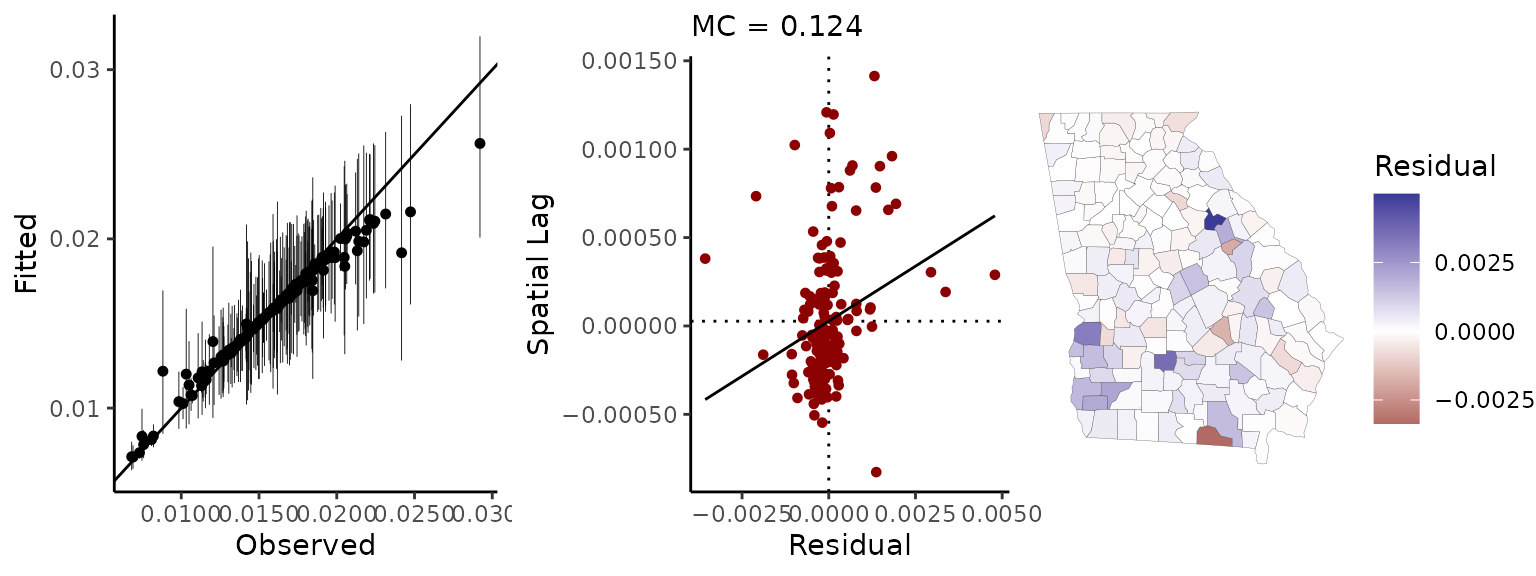
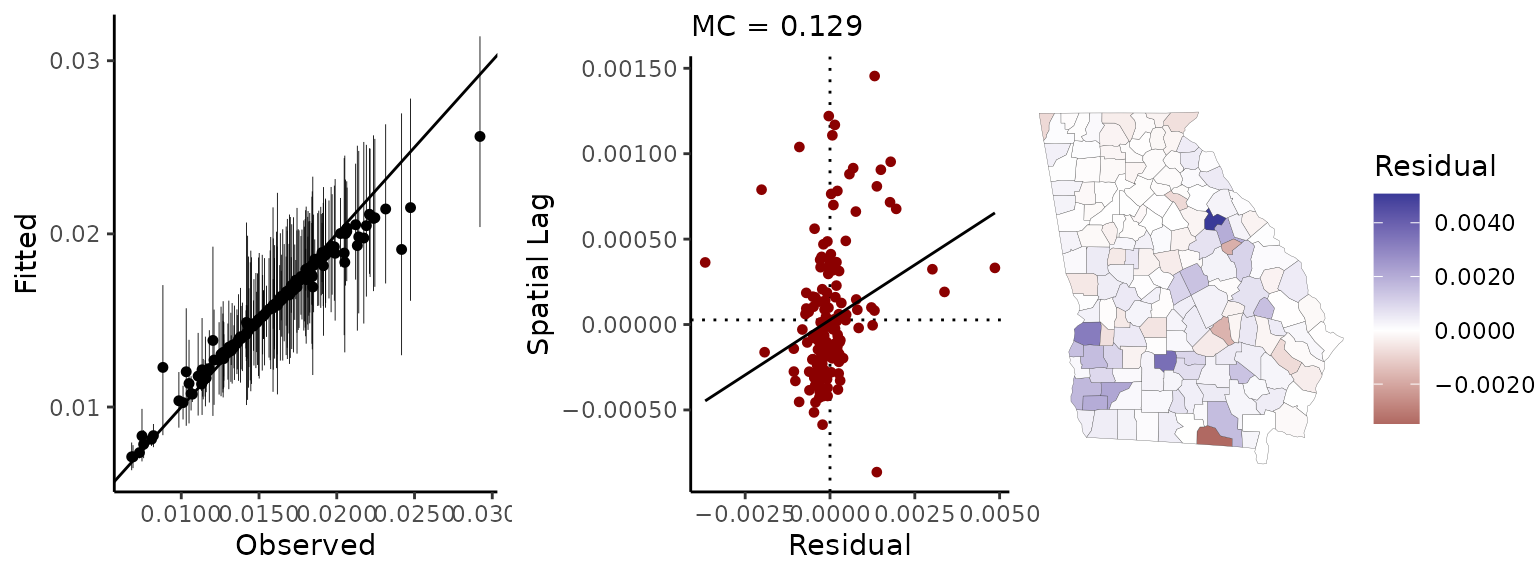
typo in equation

diff --git a/docs/articles/measuring-sa.html b/docs/articles/measuring-sa.html
@@ -157,7 +157,7 @@
 <div class="section level2">
 <h2 id="the-moran-coefficient-mc">The Moran coefficient (MC)<a class="anchor" aria-label="anchor" href="#the-moran-coefficient-mc"></a>
 </h2>
-<p>The formula for the Moran coefficient (MC), an index of SA, is <span class="math display">\[MC = \frac{n}{K}\frac{\sum_i^n \sum_j^n w_{ij} (y_i - \overline{y})(j_j - \overline{y})}{\sum_i^n (y_i - \overline{y})^2} \]</span> where <span class="math inline">\(K\)</span> is the sum of all values in the spatial connectivity matrix <span class="math inline">\(W\)</span> (i.e., the sum of all row-sums: <span class="math inline">\(K = \sum_i \sum_j w_{ij}\)</span>).</p>
+<p>The formula for the Moran coefficient (MC), an index of SA, is <span class="math display">\[MC = \frac{n}{K}\frac{\sum_i^n \sum_j^n w_{ij} (y_i - \overline{y})(y_j - \overline{y})}{\sum_i^n (y_i - \overline{y})^2} \]</span> where <span class="math inline">\(K\)</span> is the sum of all values in the spatial connectivity matrix <span class="math inline">\(W\)</span> (i.e., the sum of all row-sums: <span class="math inline">\(K = \sum_i \sum_j w_{ij}\)</span>).</p>
 <p>The MC is related to the Pearson product moment correlation coefficient. <span class="citation">(Chun and Griffith <a href="#ref-chun_2013">2013</a>, 10)</span>. Whereas the correlation coefficient ranges from -1 to 1, the MC does not, except under special circumstances—the range usually expands somewhat. Its expected value under a condition of zero SA is not zero, but instead, <span class="math inline">\(-1/(n-1)\)</span> (which approaches zero as <span class="math inline">\(n\)</span> increases).</p>
 <p>It is also important to understand that the MC does not ‘behave’ similarly to the correlation coefficient. Specifically, for moderate to high levels of autocorrelation, the MC may not be highly sensitive to changes in the degree of autocorrelation; it is more powerful for detecting the presence of autocorrelation. This issue motivated development of an approximate estimator of the spatial autocorrelation parameter from the simultaneous autoregressive (SAR) model, called APLE (approximate-profile likelihood estimator) <span class="citation">(Li, Calder, and Cressie <a href="#ref-li_2007">2007</a>)</span>. While it is limited to smaller data sets, it is another helpful tool (see <code><a href="../reference/aple.html">?geostan::aple</a></code>).</p>
 </div>
@@ -191,13 +191,13 @@
 <span class="va">x</span> <span class="op">&lt;-</span> <span class="fu"><a href="https://rdrr.io/r/base/Log.html" class="external-link">log</a></span><span class="op">(</span><span class="va">georgia</span><span class="op">$</span><span class="va">income</span><span class="op">)</span>
 <span class="va">Ii</span> <span class="op">&lt;-</span> <span class="fu"><a href="../reference/lisa.html">lisa</a></span><span class="op">(</span><span class="va">x</span>, <span class="va">W</span><span class="op">)</span>
 <span class="fu"><a href="https://rdrr.io/r/utils/head.html" class="external-link">head</a></span><span class="op">(</span><span class="va">Ii</span><span class="op">)</span>
-<span class="co">#&gt;       Li type</span>
-<span class="co">#&gt; 1  0.139   LL</span>
-<span class="co">#&gt; 2  0.574   LL</span>
-<span class="co">#&gt; 3  1.327   HH</span>
-<span class="co">#&gt; 4  1.473   HH</span>
-<span class="co">#&gt; 5 -0.688   HL</span>
-<span class="co">#&gt; 6  3.282   HH</span></code></pre></div>
+<span class="co">#&gt;           Li type</span>
+<span class="co">#&gt; 1  0.1386529   LL</span>
+<span class="co">#&gt; 2  0.5739574   LL</span>
+<span class="co">#&gt; 3  1.3266778   HH</span>
+<span class="co">#&gt; 4  1.4730497   HH</span>
+<span class="co">#&gt; 5 -0.6875601   HL</span>
+<span class="co">#&gt; 6  3.2815681   HH</span></code></pre></div>
 <p>“HH” indicates a high value surrounded by high values; “LL” is a low surrounded by low values, and so on.</p>
 <p>The local Geary statistic can be calculated using the <code>lg</code> function:</p>
 <div class="sourceCode" id="cb9"><pre class="downlit sourceCode r">
@@ -274,8 +274,8 @@
 <span class="co">#&gt; Spatial method (outcome):  Exchangeable </span>
 <span class="co">#&gt; Likelihood function:  poisson </span>
 <span class="co">#&gt; Link function:  log </span>
-<span class="co">#&gt; Residual Moran Coefficient:  0.02177775 </span>
-<span class="co">#&gt; WAIC:  1320.21 </span>
+<span class="co">#&gt; Residual Moran Coefficient:  0.02450075 </span>
+<span class="co">#&gt; WAIC:  1319.71 </span>
 <span class="co">#&gt; Observations:  159 </span>
 <span class="co">#&gt; Data models (ME): none</span>
 <span class="co">#&gt; Inference for Stan model: foundation.</span>
@@ -283,10 +283,10 @@
 <span class="co">#&gt; post-warmup draws per chain=1000, total post-warmup draws=4000.</span>
 <span class="co">#&gt; </span>
 <span class="co">#&gt;             mean se_mean    sd   2.5%    25%    50%    75%  97.5% n_eff  Rhat</span>
-<span class="co">#&gt; intercept -4.179   0.001 0.021 -4.220 -4.193 -4.179 -4.164 -4.136   388 1.022</span>
-<span class="co">#&gt; alpha_tau  0.248   0.000 0.016  0.218  0.237  0.248  0.259  0.281  4220 1.000</span>
+<span class="co">#&gt; intercept -4.181   0.001 0.022 -4.224 -4.197 -4.182 -4.166 -4.138   284 1.013</span>
+<span class="co">#&gt; alpha_tau  0.248   0.000 0.016  0.218  0.236  0.247  0.258  0.280  4147 1.000</span>
 <span class="co">#&gt; </span>
-<span class="co">#&gt; Samples were drawn using NUTS(diag_e) at Sat Jul  9 13:00:36 2022.</span>
+<span class="co">#&gt; Samples were drawn using NUTS(diag_e) at Mon Jul 11 11:48:39 2022.</span>
 <span class="co">#&gt; For each parameter, n_eff is a crude measure of effective sample size,</span>
 <span class="co">#&gt; and Rhat is the potential scale reduction factor on split chains (at </span>
 <span class="co">#&gt; convergence, Rhat=1).</span></code></pre></div>
